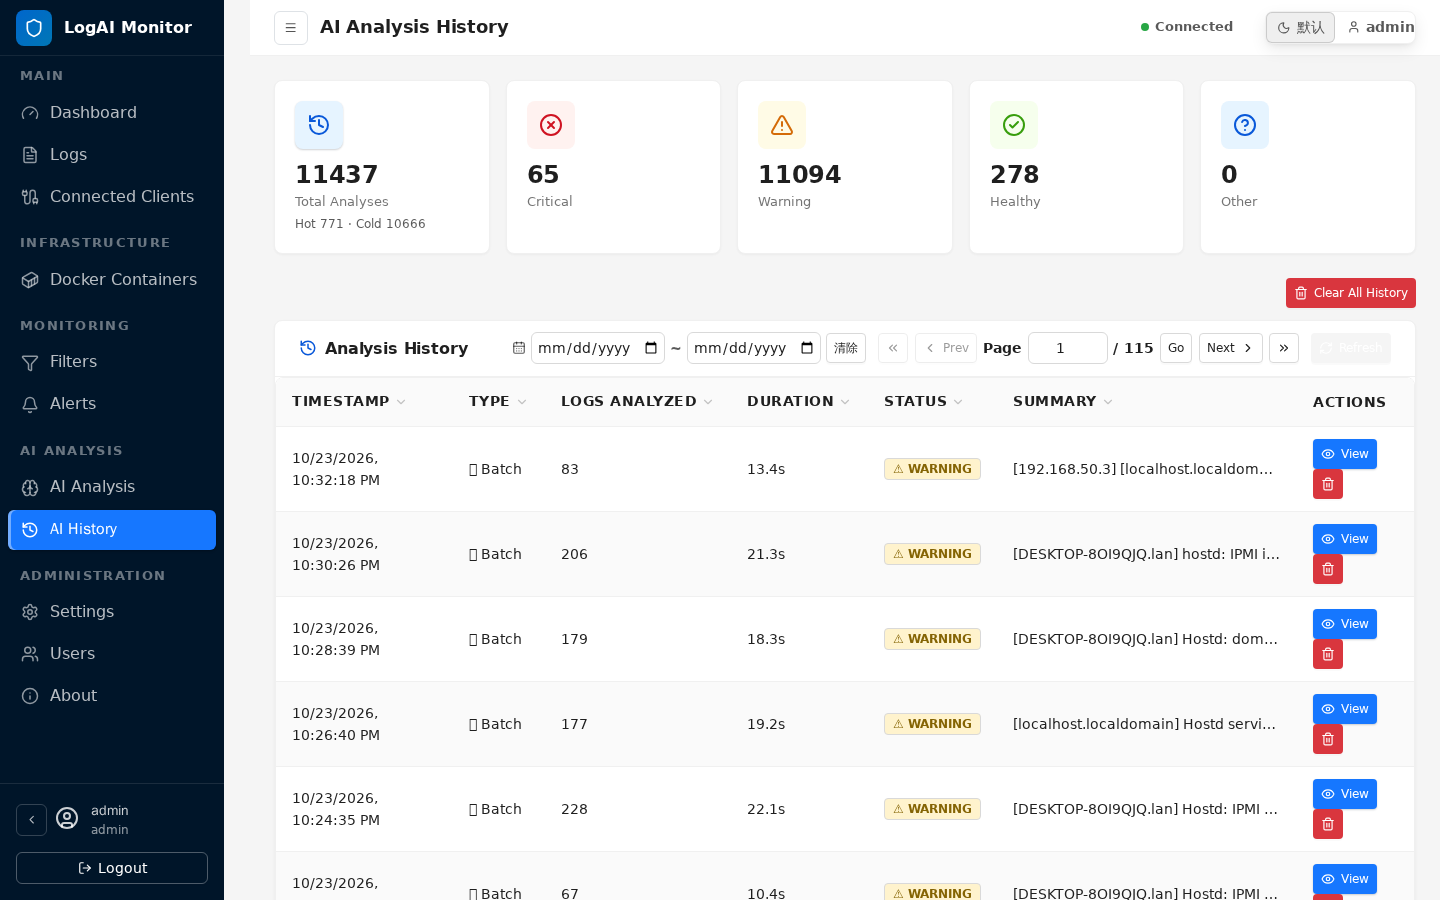
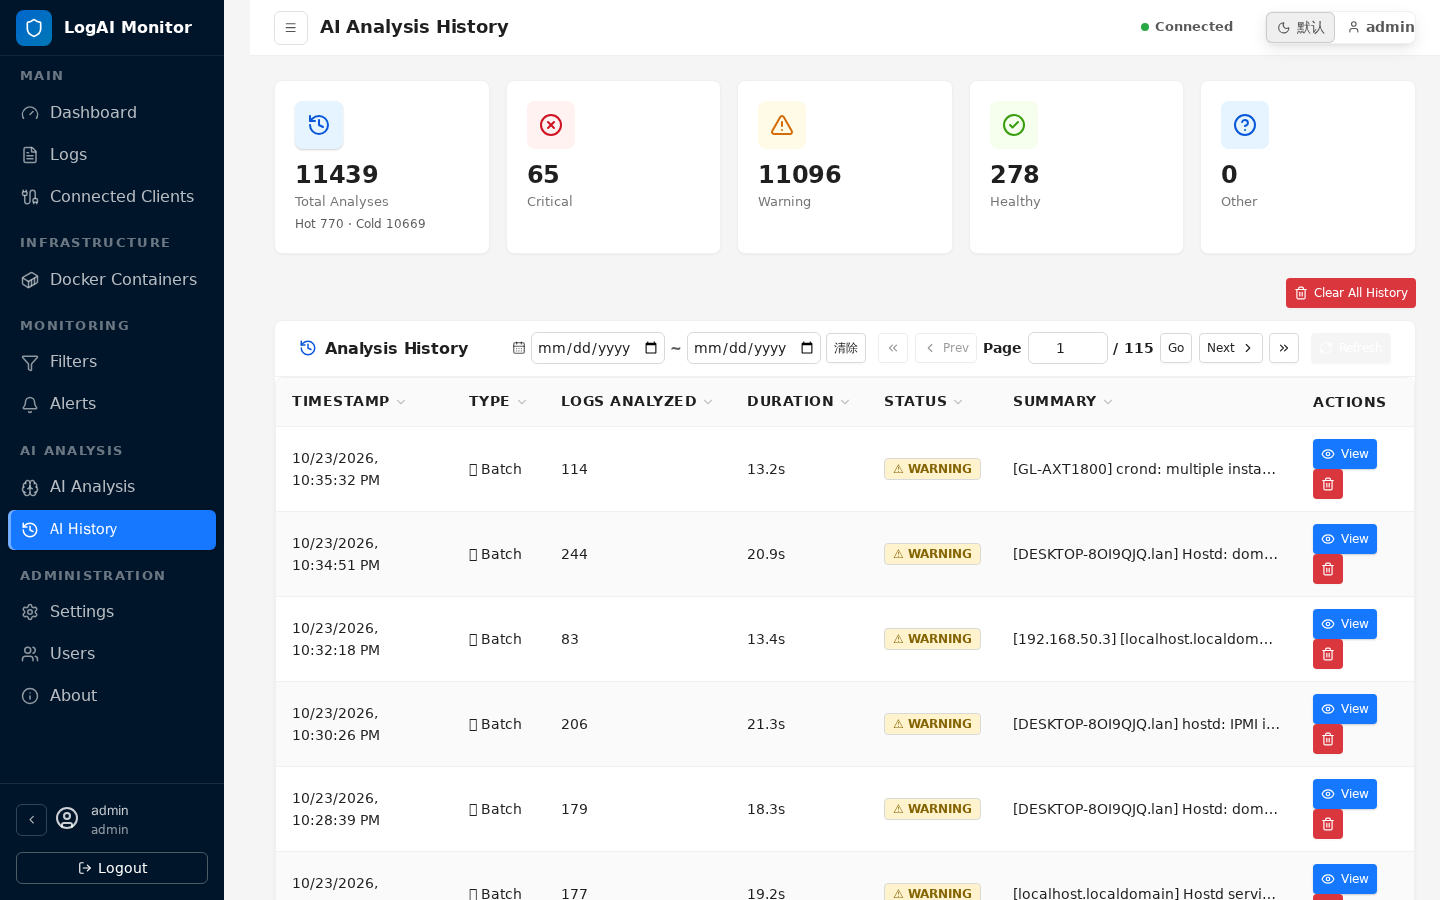
docs: 刷新界面截图（含夜间主题）+ 修 Token 明细行与复位按钮重叠
- 重新拍摄 8 张截图（About/设置等页面内容已更新，旧图过期）
- 新增 dashboard-night.png（夜间主题）
- README 预览表增加夜间主题一格
- Token 明细行改为：只有明细区横向滚动，复位按钮固定右侧可见
  （原来整行 overflow-x:auto，按钮被文字推出可视区）

diff --git a/wwwroot/css/ant.css b/wwwroot/css/ant.css
@@ -749,3 +749,15 @@ th.sortable[data-dir="desc"] .sort-ind { opacity: 1; }
 .main-content { min-width: 0; }
 .page-content { min-width: 0; }
 .header-actions { min-width: 0; flex-shrink: 0; }
+
+/* Token 明细行：只让中间明细区横向滚动，「复位」按钮始终贴在右侧可见。
+   原样式把整行设为 overflow-x:auto，按钮跟着内容一起被推出可视区/被文字盖住。 */
+.token-usage-head { overflow: visible; }
+.token-usage-title { flex: 0 0 auto; }
+.token-usage-items {
+  flex: 1 1 auto;
+  min-width: 0;
+  overflow-x: auto;
+  scrollbar-width: thin;
+}
+.token-usage-head > .btn { flex: 0 0 auto; margin-left: auto; }

diff --git a/README.md b/README.md
@@ -20,9 +20,9 @@ syslog 采集 + AI 批量分析 + 告警推送 + Web 界面的日志监控系统
 |---|---|
 | ![设置](docs/screenshots/settings.png) | ![关于](docs/screenshots/about.png) |
 
-| 登录 |
-|---|
-| ![登录](docs/screenshots/login.png) |
+| 登录 | 夜间主题 |
+|---|---|
+| ![登录](docs/screenshots/login.png) | ![夜间主题](docs/screenshots/dashboard-night.png) |
 
 ---
 
